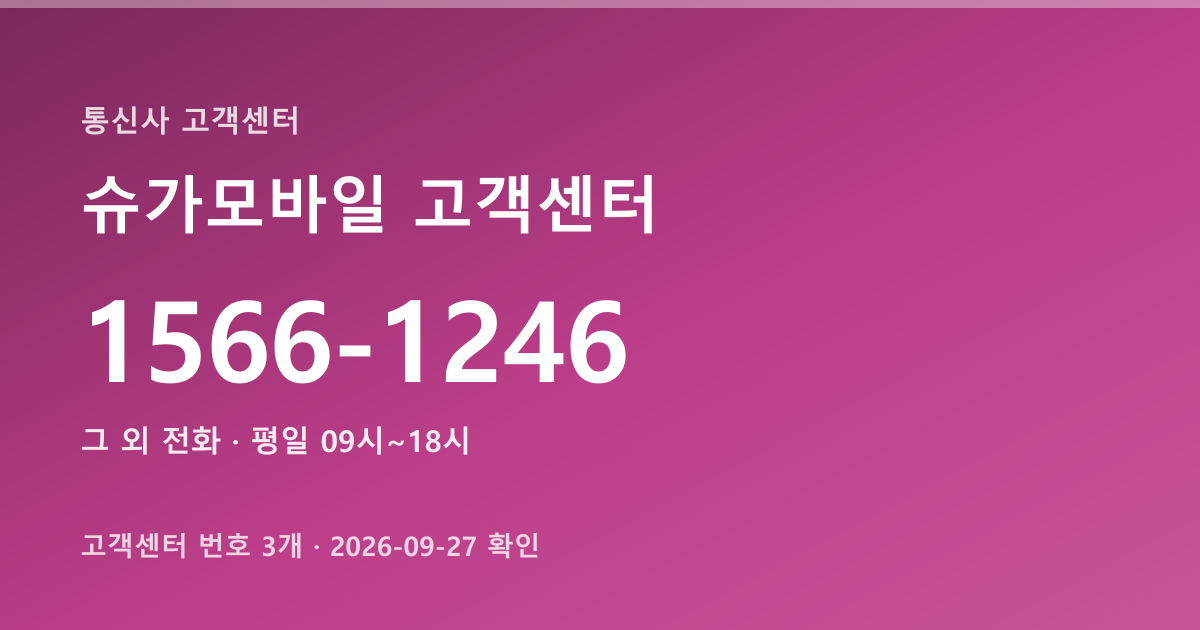
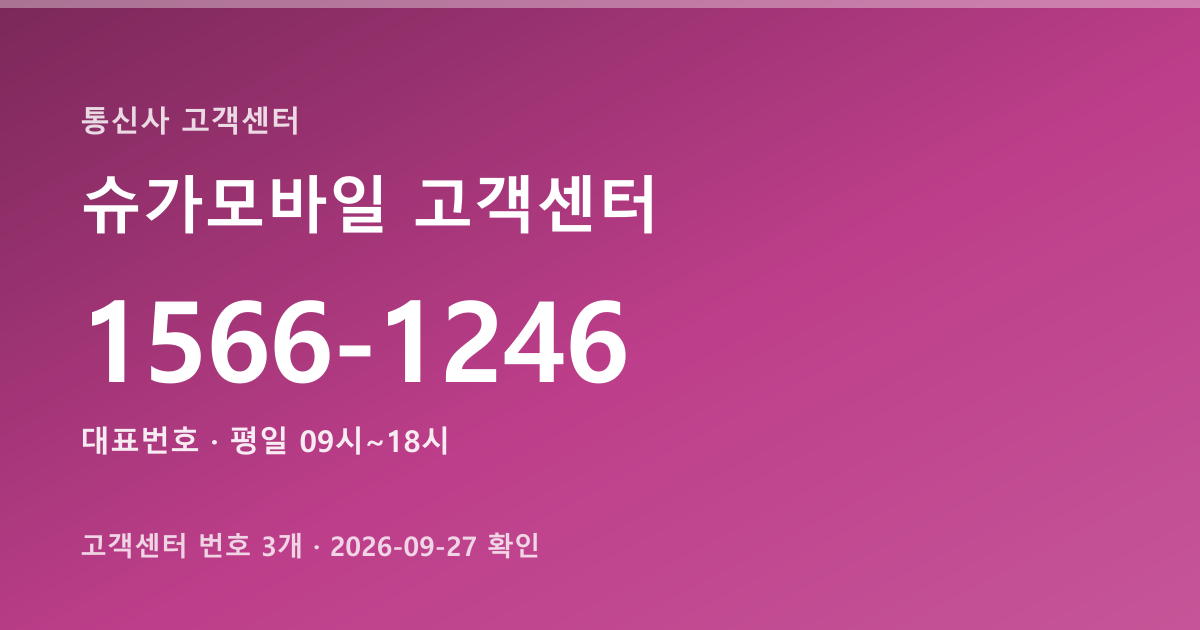
feat: 슈가모바일 대표번호 라벨 고객센터

Changed region(s): [[0.0617, 0.6635, 0.4008, 0.7238]]

diff --git a/app/policy/[id]/[spoke]/content/통신고객센터/sugar-mobile.tsx b/app/policy/[id]/[spoke]/content/통신고객센터/sugar-mobile.tsx
@@ -35,7 +35,7 @@ export const sugarMobileCallCenterSpokeContent: SpokeData = {
   heroAct: { label: '1566-1246 로 문의하기', href: TEL },
 
   keyFacts: {
-    '대표번호': '1566-1246 (그 외 전화)',
+    '대표번호': '1566-1246 (대표번호)',
     '상담 가능 시간': '평일 09시~18시',
     '공휴일': '토/일요일 법정공휴일 휴무',
     '본사': '서울 송파구 송파대로 167, 비동 1316,1317호(문정동, 문정역테라타워1)',
@@ -55,7 +55,7 @@ export const sugarMobileCallCenterSpokeContent: SpokeData = {
       highlights: ['1566-1246', '대표번호'],
       table: {
         headers: ['구분', '번호', '비고'],
-        rows: [['그 외 전화', '1566-1246', '유료, 유선 또는 타사 휴대폰'], ['자사 가입 폰에서', '114', '무료'], ['LG유플러스 로밍센터', '02-3416-7010', '로밍 요율·상품 문의']],
+        rows: [['대표번호', '1566-1246', '유료, 유선 또는 타사 휴대폰'], ['자사 가입 폰에서', '114', '무료'], ['LG유플러스 로밍센터', '02-3416-7010', '로밍 요율·상품 문의']],
       },
       sourceNote: '* 출처: 슈가모바일 공식 홈페이지 고객센터 안내 (2026-09-27 확인)',
     },
@@ -156,7 +156,7 @@ export const sugarMobileCallCenterSpokeContent: SpokeData = {
     "sourceName": "슈가모바일 공식 홈페이지 고객센터 안내",
     "verifiedAt": "2026-09-27",
     "main": {
-      "label": "그 외 전화",
+      "label": "대표번호",
       "tel": "1566-1246"
     },
     "hours": {
@@ -177,7 +177,7 @@ export const sugarMobileCallCenterSpokeContent: SpokeData = {
     },
     "numbers": [
       {
-        "label": "그 외 전화",
+        "label": "대표번호",
         "tel": "1566-1246",
         "note": "유료, 유선 또는 타사 휴대폰"
       },
